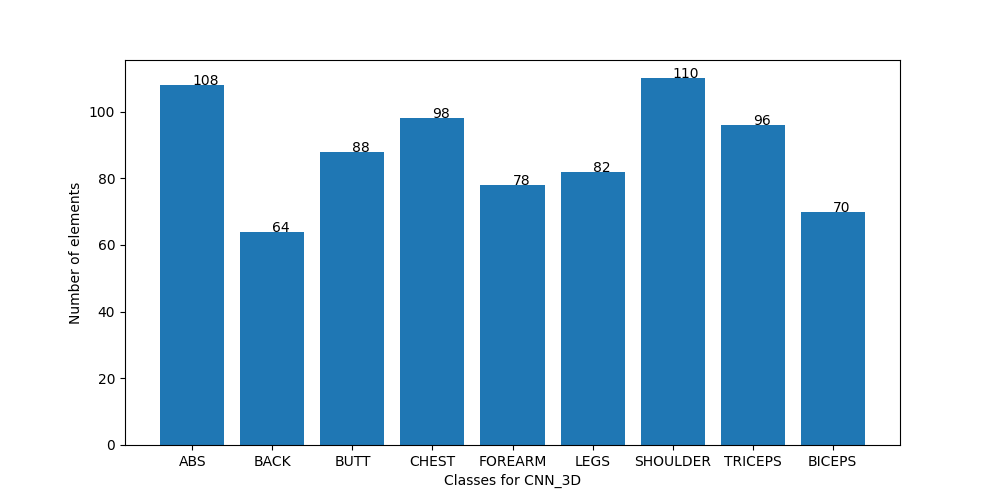
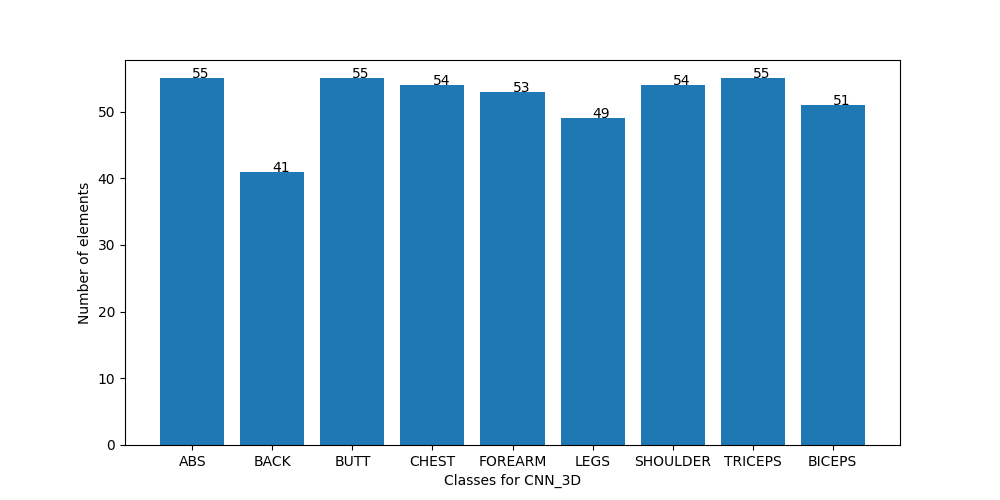
retraining of 3D CNN

diff --git a/controller/Controller.py b/controller/Controller.py
@@ -8,7 +8,7 @@ from models.VectorModelANN import VectorModelANN
 from models.Model3DCNN import Model3DCNN
 from models.PictureModelCNN import PictureModelCNN
 import os
-from utils.utils import transform_file_name_into_int
+from utils.utils import transform_file_name_into_int, transform_int_into_file_name
 from helpers.helpers import TrainerANNData, Trainer3DCNNData, TrainerCNNData
 from helpers.enums import TrainerEnum
 
@@ -66,29 +66,46 @@ class ControllerClass:
                 height_image=self.__cnn_data.height_cnn,
             )
 
+        data = {
+            "ABS": 0,
+            "BACK": 0,
+            "BUTT": 0,
+            "CHEST": 0,
+            "FOREARM": 0,
+            "LEGS": 0,
+            "SHOULDER": 0,
+            "TRICEPS": 0,
+            "BICEPS": 0,
+        }
+
         for filename in os.listdir(os.getcwd()  + "/training data"):         
             print(f"INFO:GATHER_DATA_{trainer_enum.value}: Processing file {counter_files} with the name {filename}")
+            idx = transform_file_name_into_int(filename).index(1)
+            exercise_name = transform_int_into_file_name(idx)
+            data[exercise_name] = data[exercise_name] + 1
             counter_files+=1
 
-            trainer.update_new_obj(filename)
+            if data[exercise_name] <=55:
+                trainer.update_new_obj(filename)
 
-            x_train_slice = trainer.generate_data()
+                x_train_slice = trainer.generate_data()
 
-            if trainer_enum.value == TrainerEnum.CNN.value:
-                x_training_data.extend(
-                    x_train_slice
-                )
-                for _ in range(len(x_train_slice)):
+                if trainer_enum.value == TrainerEnum.CNN.value:
+                    x_training_data.extend(
+                        x_train_slice
+                    )
+                    for _ in range(len(x_train_slice)):
+                        y_training_data.append(
+                            transform_file_name_into_int(filename)
+                        )
+                else:
+                    x_training_data.append(
+                        x_train_slice
+                    )
                     y_training_data.append(
                         transform_file_name_into_int(filename)
                     )
-            else:
-                x_training_data.append(
-                    x_train_slice
-                )
-                y_training_data.append(
-                    transform_file_name_into_int(filename)
-                )
+                
 
         return x_training_data, y_training_data
 

diff --git a/models/Model3DCNN.py b/models/Model3DCNN.py
@@ -19,7 +19,7 @@ class Model3DCNN:
     _width_picture: int = WIDTH_3D_CNN
     _height_picture: int = HEIGHT_3D_CNN
     _batch_size: int = 16
-    _epochs: int = 64
+    _epochs: int = 128
     _checkpoint_path: str = field(init=False)
     __model: Optional[tf.keras.models.Sequential] = field(init=False)
 

diff --git a/utils/constants.py b/utils/constants.py
@@ -1,6 +1,6 @@
 ANN_SIZE = 110
-WIDTH_3D_CNN = 160
-HEIGHT_3D_CNN = 120
+WIDTH_3D_CNN = 192
+HEIGHT_3D_CNN = 144
 MIN_NUMBER_OF_FRAMES_IN_3D_CNN = 80
 HEIGHT_PICTURE_CNN = 128
 WIDTH_PICTURE_CNN = 96
